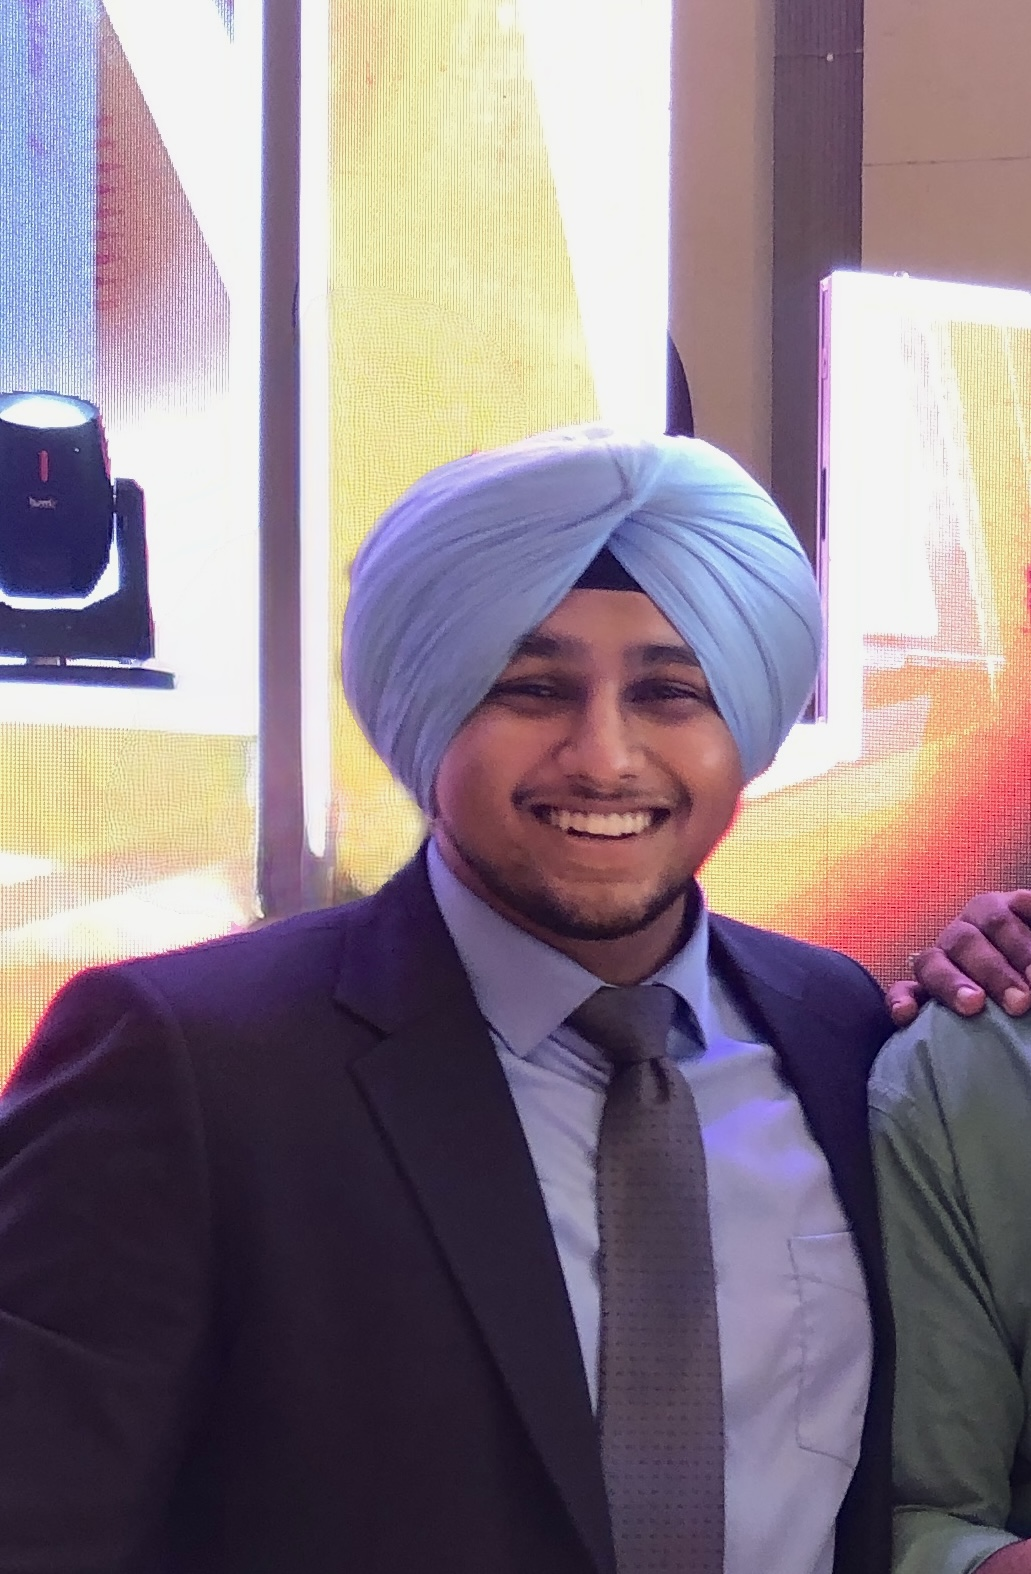
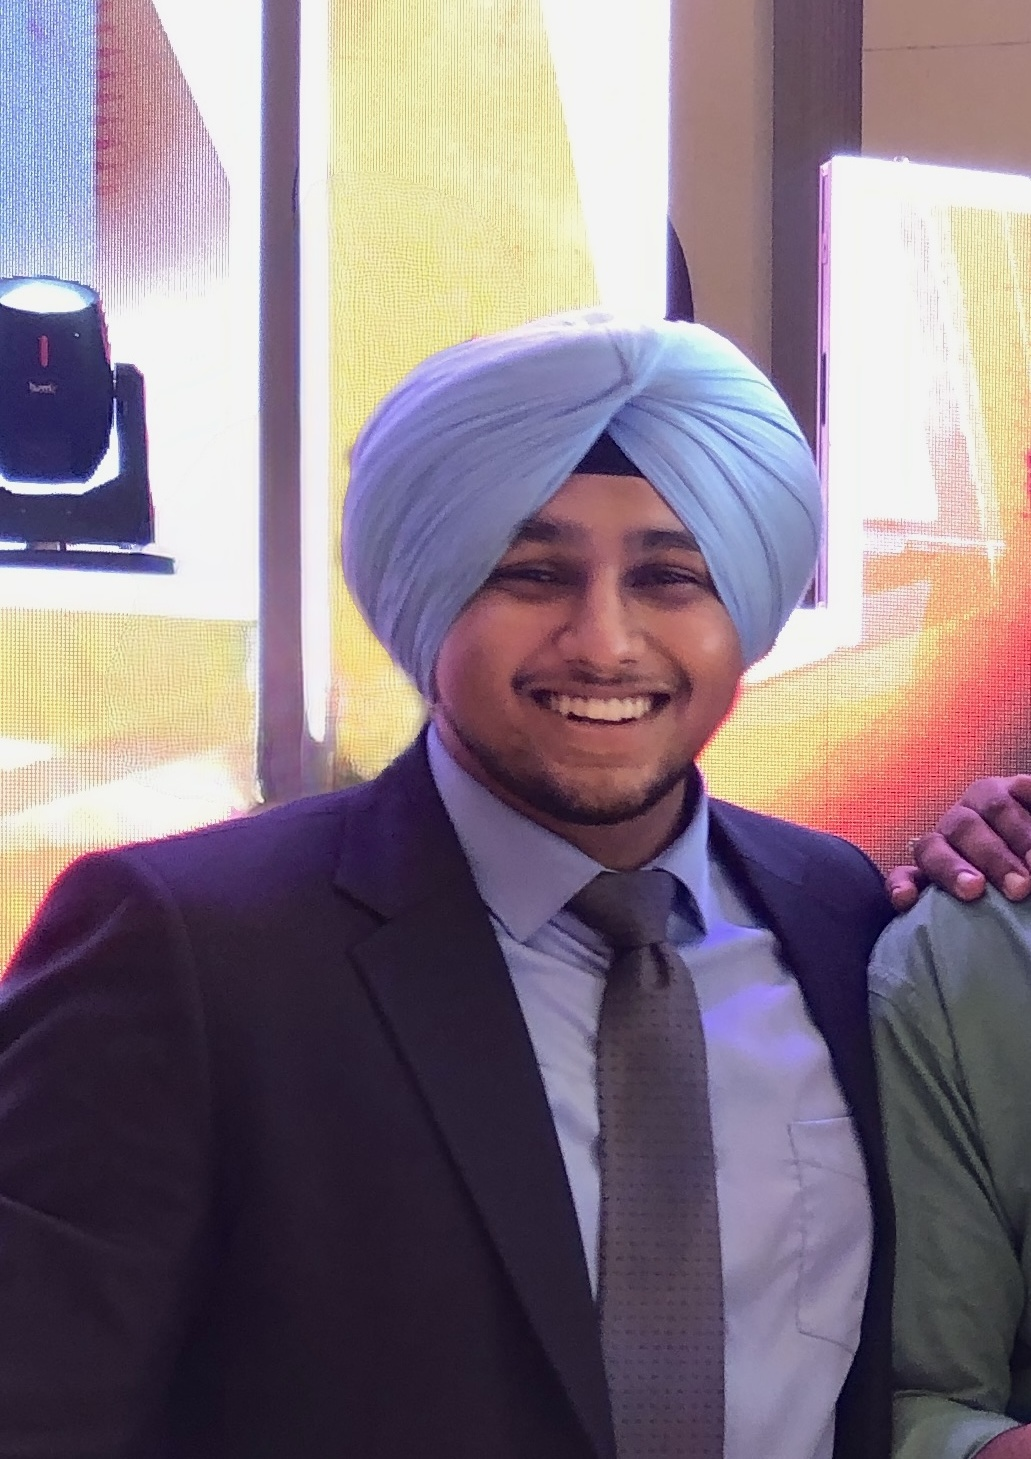
Crop extra top headroom on hero image and adjust aspect ratio

diff --git a/style.css b/style.css
@@ -242,7 +242,7 @@ body {
   z-index: 2;
   margin-top: 160px;
   width: clamp(220px, 22vw, 360px);
-  aspect-ratio: 1 / 1.35;
+  aspect-ratio: 1 / 1.25;
   border-radius: var(--radius-xl);
   overflow: hidden;
   box-shadow: 0 30px 80px rgba(0,0,0,0.12);
